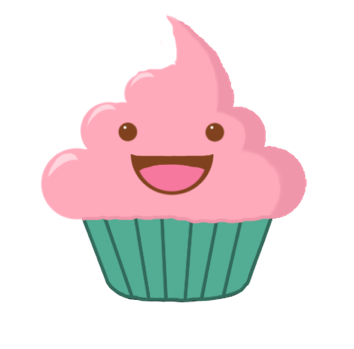
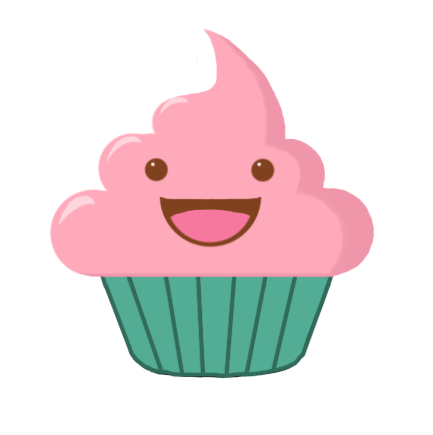
fixed styling issues

diff --git a/app/assets/stylesheets/main.scss b/app/assets/stylesheets/main.scss
@@ -68,7 +68,7 @@ md-dialog {
    #happy-cupcake{ z-index: 0;position: fixed;opacity: 0.7;@include rotate(-20deg);left: 45%;top: 250px;}
 	.title{@include brand-font($accent-color);}
 	.pitch{font-family: $josefin-sans;color:$accent-color;font-size:1.5em; margin-top:1.5rem;font-style:italic;}
-	.explanation{@include body;margin-top:1.5rem;text-align: center;}
+	.explanation{@include body;margin-top:1.5rem;text-align: center;margin-top: 5.5rem;}
 	.login{@include title; margin-top:1.5rem;opacity:0.7;}
 	md-toolbar {min-height: initial; height:20px;}
 	.md-primary {height: 0px;}

diff --git a/app/assets/javascripts/auth/_forgotpassword.html b/app/assets/javascripts/auth/_forgotpassword.html
@@ -9,6 +9,8 @@
 		</div>
 	</md-toolbar>
 	<md-dialog-content class="sticky-container" ng-hide="successfulMessage">
+			<img id="happy-cupcake" src="/assets/happy_cupcake_big.png" hide-gt-sm>
+
 		<div>
 			
 		  <form ng-submit="resetPassword()" ng-submit="resetPassword()">

diff --git a/app/assets/stylesheets/base/components.scss b/app/assets/stylesheets/base/components.scss
@@ -4,7 +4,7 @@
 	font-weight:400;
 	color:black;
 	text-transform: none;
-	@include main-color;
+	color:  rgba(0, 0, 0, 0.54);
 }
 
 .cursor{
